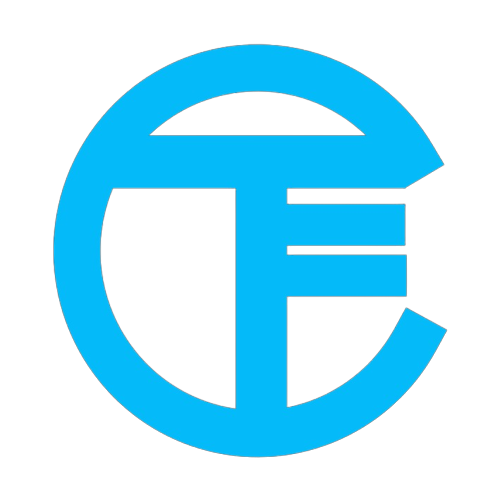
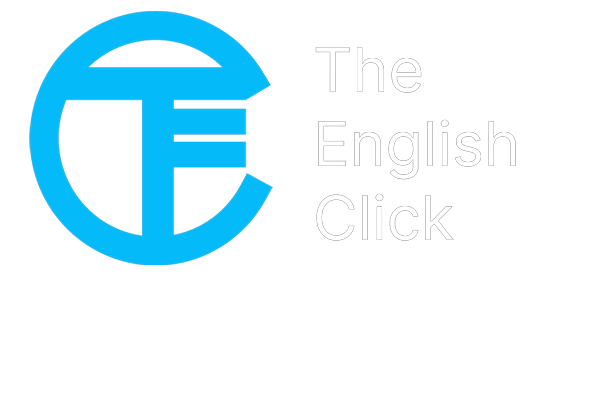
logo2

diff --git a/index.html b/index.html
@@ -5,15 +5,12 @@
 	<meta charset="utf-8">
 	<meta http-equiv="X-UA-Compatible" content="IE=edge">
 	<meta name="viewport" content="width=device-width, initial-scale=1">
-
 	<title>The English Click</title>
-
-	<link rel="icon" href="imagens/icon.png">
+	<link rel="icon" href="imagens/teclogo2_transparent.png">
 	<link href="css/bootstrap.min.css" rel="stylesheet">
 	<link href="css/style.css" rel="stylesheet">
 	<link rel="stylesheet" href="css/style.css">
 	<script src="https://cdn.tailwindcss.com"></script>
-
 </head>
 
 <body>
@@ -56,8 +53,8 @@
 					</div>
 					<div class="flex-1 flex items-center justify-center sm:items-stretch sm:justify-start">
 						<div class="flex-shrink-0 flex items-center">
-							<img class="block lg:hidden h-12 w-auto" src="imagens/icon.png" alt="Workflow" id="nav">
-							<img class="hidden lg:block h-12 w-auto" src="imagens/icon.png" alt="Workflow" id="nav">
+							<img class="block lg:hidden h-12 w-auto" src="imagens/icon2.png" alt="Workflow" id="nav">
+							<img class="hidden lg:block h-12 w-auto" src="imagens/icon2.png" alt="Workflow" id="nav">
 						</div>
 						<div class="hidden sm:block sm:ml-6">
 							<div class="flex space-x-4">
@@ -66,10 +63,10 @@
 									class="bg-gray-900 text-white px-3 py-2 rounded-md text-sm font-medium"
 									aria-current="page">Início</a>
 
-								<a href="#"
+								<a href="exerc_glo/glo.html"
 									class="text-gray-300 hover:bg-gray-700 hover:text-white px-3 py-2 rounded-md text-sm font-medium">Glossário</a>
 
-								<a href="#"
+								<a href="exerc_glo/exerc.html"
 									class="text-gray-300 hover:bg-gray-700 hover:text-white px-3 py-2 rounded-md text-sm font-medium">Exercícios</a>
 
 								<a href="#"
@@ -127,15 +124,15 @@
 		</nav>
 		<div class="col-md-12">
 			<div class="carousel slide" id="carousel-689743">
-				<ol class="carousel-indicators">
-					<li data-slide-to="0" data-target="#carousel-689743" class="active">
+				<ol class="carousel-indicators show">
+					<li data-slide-to="0" data-target="#carousel-689743" class="active show">
 					</li>
 					<li data-slide-to="1" data-target="#carousel-689743">
 					</li>
 					<li data-slide-to="2" data-target="#carousel-689743">
 					</li>
 				</ol>
-				<div class="carousel-inner">
+				<div class="carousel-inner show">
 					<div class="carousel-item active">
 						<img class="tam" class="d-block w-100" alt="Carousel Bootstrap First" src="imagens/cod.jpg">
 						<div class="carousel-caption">
@@ -143,7 +140,7 @@
 								Welcome to The English Click
 							</h4>
 							<p>
-								Aprenda conceitos de programação e inglês instrumental
+								Aprenda programação básica e o inglês nela incluído
 							</p>
 						</div>
 					</div>
@@ -151,10 +148,10 @@
 						<img class="tam" class="d-block w-100" alt="Carousel Bootstrap Second"
 							src="imagens/conceito.jpg">
 						<div class="carousel-caption">
-							<h4 class="cor">
+							<h4>
 								Veja o glossário
 							</h4>
-							<p class="cor">
+							<p>
 								Aprenda a teoria de cada um dos termos comumente usados na programação
 							</p>
 						</div>
@@ -172,9 +169,9 @@
 						</div>
 					</div>
 				</div> <a class="carousel-control-prev" href="#carousel-689743" data-slide="prev"><span
-						class="carousel-control-prev-icon"></span> <span class="sr-only">Anterior</span></a> <a
+						class="carousel-control-prev-icon"></span> <span class="sr-only">Previous</span></a> <a
 					class="carousel-control-next" href="#carousel-689743" data-slide="next"><span
-						class="carousel-control-next-icon"></span> <span class="sr-only">Próximo</span></a>
+						class="carousel-control-next-icon"></span> <span class="sr-only">Next</span></a>
 			</div>
 		</div>
 	</div>

diff --git a/exerc_glo/exerc.html b/exerc_glo/exerc.html
@@ -4,7 +4,7 @@
 <head>
     <meta charset="UTF-8">
     <title>The English Click</title>
-    <link rel="icon" href="https://upload.wikimedia.org/wikipedia/commons/0/0b/English_language.svg">
+    <link rel="icon" href="imagens/teclogo2_transparent.png">
     <link href="https://cdn.jsdelivr.net/npm/bootstrap@5.1.3/dist/css/bootstrap.min.css" rel="stylesheet"
         integrity="sha384-1BmE4kWBq78iYhFldvKuhfTAU6auU8tT94WrHftjDbrCEXSU1oBoqyl2QvZ6jIW3" crossorigin="anonymous">
     <link rel="stylesheet" href="sass/main.css">

diff --git a/exerc_glo/glo.html b/exerc_glo/glo.html
@@ -4,7 +4,7 @@
 <head>
     <meta charset="UTF-8">
     <title>The English Click</title>
-    <link rel="icon" href="https://upload.wikimedia.org/wikipedia/commons/0/0b/English_language.svg">
+    <link rel="icon" href="imagens/teclogo2_transparent.png">
     <link href="https://cdn.jsdelivr.net/npm/bootstrap@5.1.3/dist/css/bootstrap.min.css" rel="stylesheet"
         integrity="sha384-1BmE4kWBq78iYhFldvKuhfTAU6auU8tT94WrHftjDbrCEXSU1oBoqyl2QvZ6jIW3" crossorigin="anonymous">
     <link rel="stylesheet" href="sass/main.css">

diff --git a/css/style.css b/css/style.css
@@ -71,11 +71,15 @@ li {
     display: inline;
   }
 #nav{
-  width: 200%;
+  width: 100%;
 }
 p{
   text-align: center;
 }
 #img{
-  margin-bottom: -69px
+  margin: 20px 0px -50px 0px;
+}
+
+.show{
+  border-radius:10px;
 }
